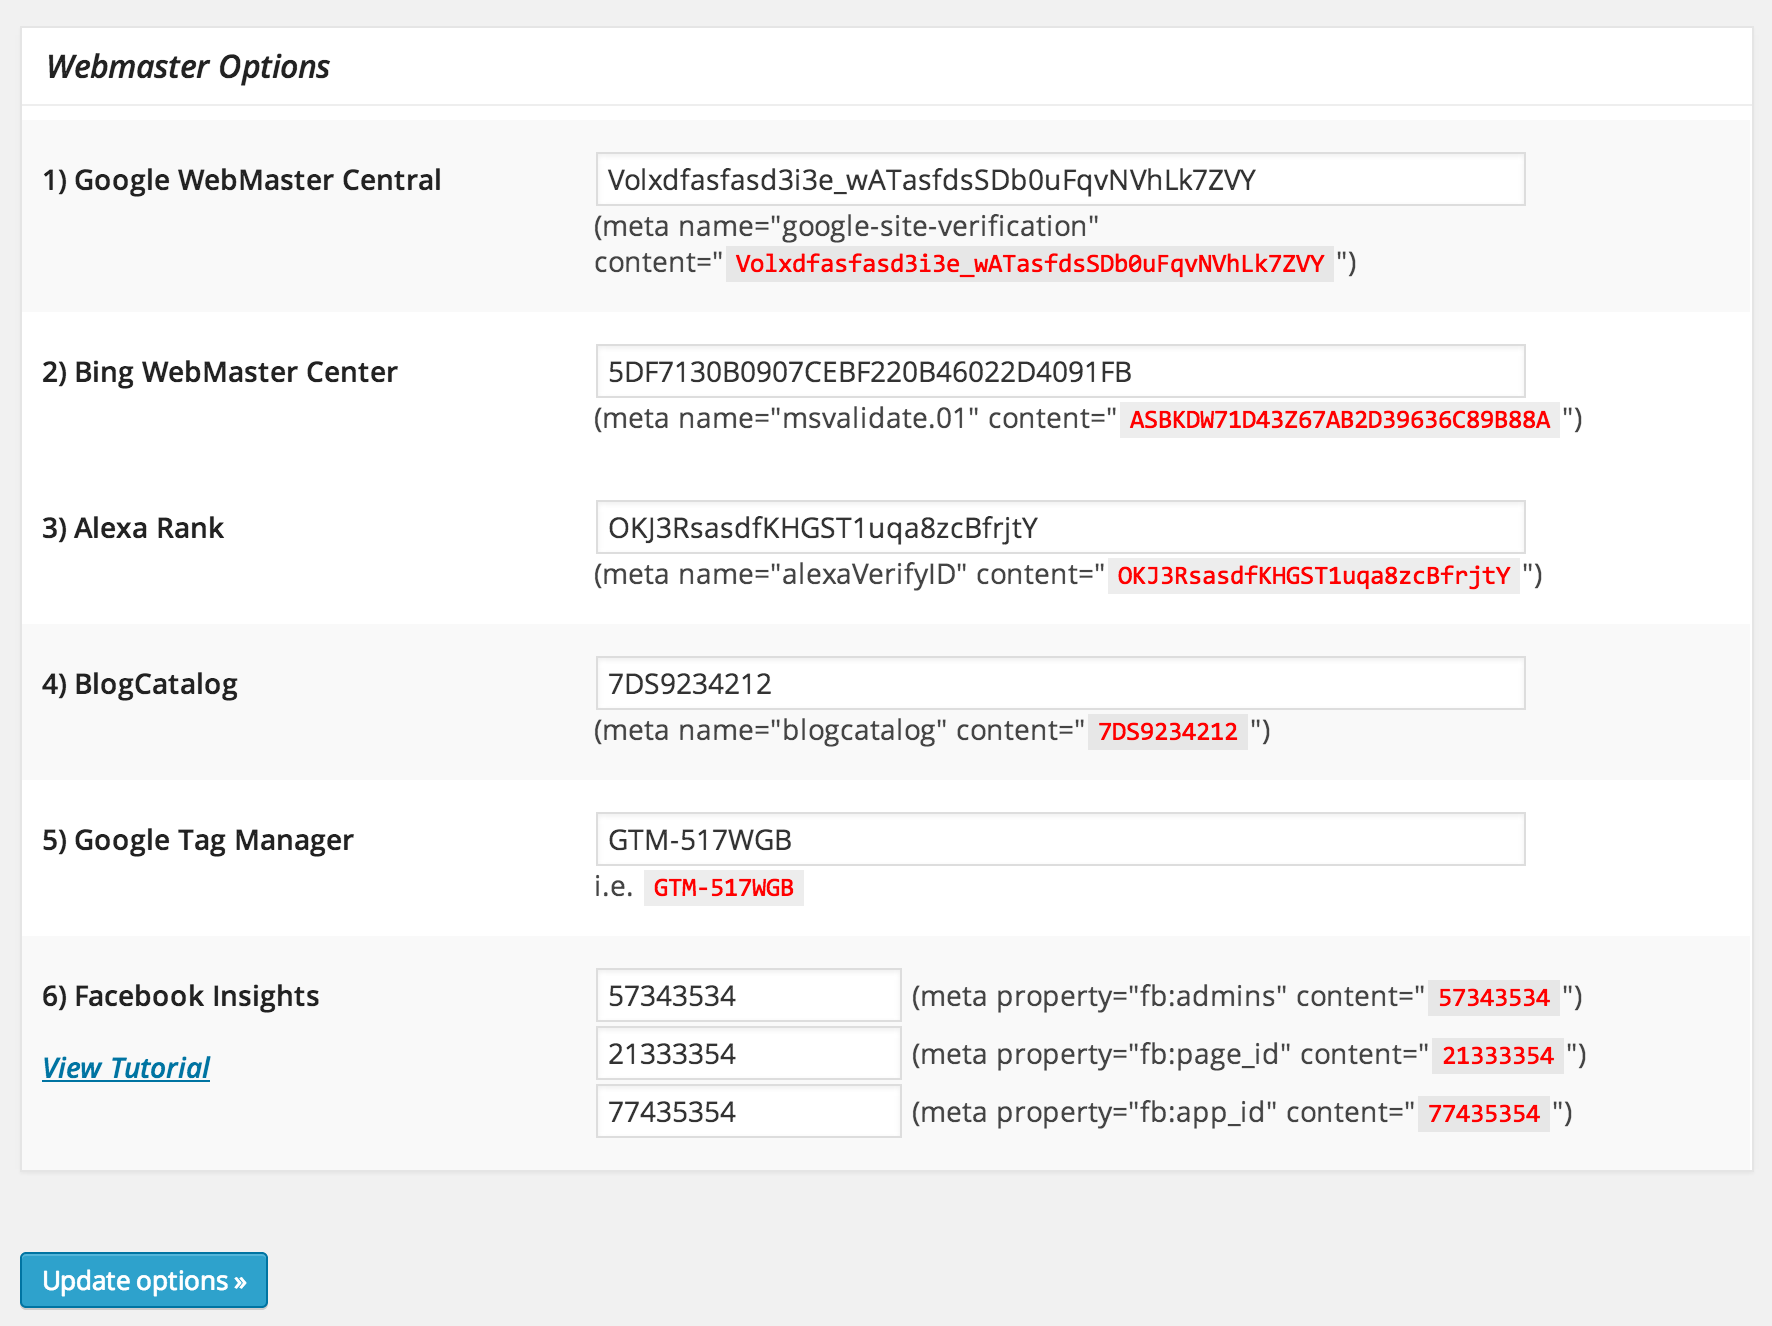
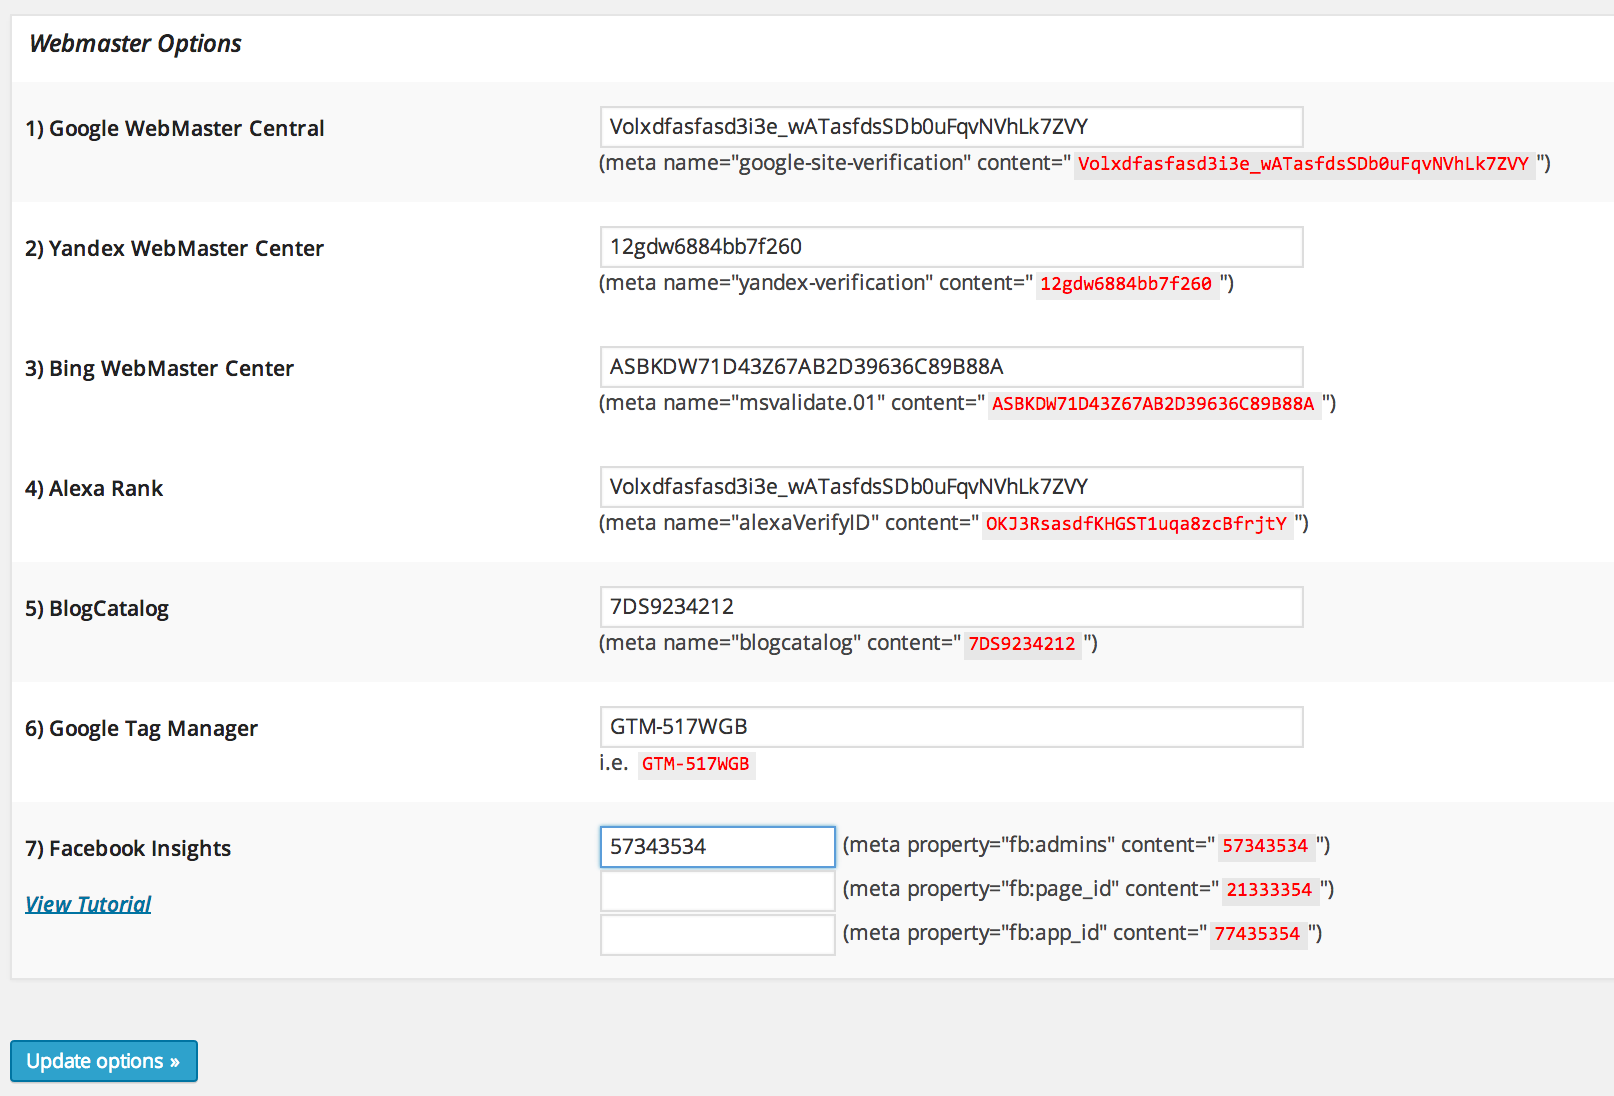
v9.5 - Yandex Meta Tag Verification Added
git-svn-id: https://plugins.svn.wordpress.org/all-in-one-webmaster/trunk@994368 b8457f37-d9ea-0310-8a92-e5e31aec5664

diff --git a/pages/aiow-premium-webmaster.php b/pages/aiow-premium-webmaster.php
@@ -28,7 +28,18 @@ require_once (dirname ( __FILE__ ) . '/aiow-premium-header.php');
 				</td>
 			</tr>
 			<tr valign="top">
-				<th scope="row" style="width: 32%;"><label>2) <b>Bing</b> WebMaster
+				<th scope="row" style="width: 32%;"><label>2) <b>Yandex</b> WebMaster
+						Center
+				</label></th>
+				<td><input id="styled" name="all_in_one_premium_yandex_webmaster"
+					type="text" size="55"
+					value="<?php echo get_option('all_in_one_premium_yandex_webmaster'); ?>" />
+					&nbsp; <br />(meta name="yandex-verification" content="<font color="red"><code>12gdw6884bb7f260</code></font>")<br />
+				</td>
+			</tr>
+			
+			<tr valign="top">
+				<th scope="row" style="width: 32%;"><label>3) <b>Bing</b> WebMaster
 						Center
 				</label></th>
 				<td><input id="styled" name="all_in_one_premium_bing_webmaster"
@@ -39,7 +50,7 @@ require_once (dirname ( __FILE__ ) . '/aiow-premium-header.php');
 				</td>
 			</tr>
 			<tr valign="top">
-				<th scope="row" style="width: 32%;"><label>3) <b>Alexa</b> Rank
+				<th scope="row" style="width: 32%;"><label>4) <b>Alexa</b> Rank
 				</label></th>
 				<td><input id="styled" name="all_in_one_premium_alexa_webmaster"
 					type="text" size="55"
@@ -48,7 +59,7 @@ require_once (dirname ( __FILE__ ) . '/aiow-premium-header.php');
 				</td>
 			</tr>
 			<tr valign="top" class="alternate">
-				<th scope="row" style="width: 32%;"><label>4) <b>BlogCatalog</b></label><?=$new_icon?></th>
+				<th scope="row" style="width: 32%;"><label>5) <b>BlogCatalog</b></label><?=$new_icon?></th>
 				<td><input id="styled" name="all_in_one_premium_bcatalog_webmaster"
 					type="text" size="55"
 					value="<?php echo get_option('all_in_one_premium_bcatalog_webmaster'); ?>" />
@@ -59,7 +70,7 @@ require_once (dirname ( __FILE__ ) . '/aiow-premium-header.php');
 			<!--  Since 10.1 -- Google Tag Manager  -->
 
 			<tr valign="top">
-				<th scope="row" style="width: 32%;"><label>5) <b>Google Tag Manager</b></label><?=$new_icon?></th>
+				<th scope="row" style="width: 32%;"><label>6) <b>Google Tag Manager</b></label><?=$new_icon?></th>
 				<td><input id="styled" name="all_in_one_premium_google_tag_manager"
 					type="text" size="55"
 					value="<?php echo get_option('all_in_one_premium_google_tag_manager'); ?>" />
@@ -68,7 +79,7 @@ require_once (dirname ( __FILE__ ) . '/aiow-premium-header.php');
 			</tr>
 
 			<tr valign="top" class="alternate">
-				<th scope="row" style="width: 32%;"><label>6) <b>Facebook Insights</b></label><?=$new_icon?><br>
+				<th scope="row" style="width: 32%;"><label>7) <b>Facebook Insights</b></label><?=$new_icon?><br>
 				<br>
 				<a href="http://www.facebook.com/insights/" target="_blank"
 					title="Click to visit Facebook Insight"><?=$help_icon?></a><i><a

diff --git a/all-in-one-webmaster-premium.php b/all-in-one-webmaster-premium.php
@@ -15,7 +15,7 @@
  *            Plugin Name: All in One Webmaster
  *            Plugin URI: http://crunchify.com/all-in-one-webmaster/
  *            Description: All in One Webmaster is the best webmaster plugin for WordPress that adds Meta-Tags and Scripts to your Site's Header and Footer Section automatically without changing any of your themes file and without slowing down your site.
- *            Version: 9.4
+ *            Version: 9.5
  *            Author: Arpit Shah
  *            Author URI: http://crunchify.com/
  *            Text Domain: aiow
@@ -40,7 +40,7 @@ class aiow_premium {
 	 *       
 	 * @var string
 	 */
-	protected $version = '9.4';
+	protected $version = '9.5';
 	
 	/**
 	 * The name of the plugin.
@@ -126,6 +126,7 @@ class aiow_premium {
 	 */
 	public function aiow_premium_header() {
 		$google_wm = get_option ( 'all_in_one_premium_google_webmaster' );
+		$yandex_wm = get_option ( 'all_in_one_premium_yandex_webmaster' );
 		$alexa_wm = get_option ( 'all_in_one_premium_alexa_webmaster' );
 		$bcatalog_wm = get_option ( 'all_in_one_premium_bcatalog_webmaster' );
 		$fbinsights_wm = get_option ( 'all_in_one_premium_fbinsights_webmaster' );
@@ -150,6 +151,11 @@ class aiow_premium {
 		if (! ($google_wm == "")) {
 			$google_wm_meta = '<meta name="google-site-verification" content="' . $google_wm . '" /> ';
 			echo $google_wm_meta . "\n";
+		}
+		
+		if (! ($yandex_wm == "")) {
+			$yandex_wm_meta = '<meta name="yandex-verification" content="' . $yandex_wm . '" /> ';
+			echo $yandex_wm_meta . "\n";
 		}
 		
 		if (! ($bing_wm == "")) {
@@ -296,6 +302,7 @@ class aiow_premium {
  * @since 9.0
  */
 add_option ( 'all_in_one_premium_google_webmaster', '' );
+add_option ( 'all_in_one_premium_yandex_webmaster', '' );
 add_option ( 'all_in_one_premium_bing_webmaster', '' );
 add_option ( 'all_in_one_premium_alexa_webmaster', '' );
 add_option ( 'all_in_one_premium_bcatalog_webmaster', '' );
@@ -542,6 +549,7 @@ function all_in_one_premium_save_all_options() {
 			die ( "Hmm .. looks like you didn't send any credentials.. No CSRF for you! " );
 		
 		update_option ( 'all_in_one_premium_google_webmaster', ( string ) $_POST ["all_in_one_premium_google_webmaster"] );
+		update_option ( 'all_in_one_premium_yandex_webmaster', ( string ) $_POST ["all_in_one_premium_yandex_webmaster"] );
 		update_option ( 'all_in_one_premium_google_tag_manager', ( string ) $_POST ["all_in_one_premium_google_tag_manager"] );
 		update_option ( 'all_in_one_premium_alexa_webmaster', ( string ) $_POST ["all_in_one_premium_alexa_webmaster"] );
 		update_option ( 'all_in_one_premium_bcatalog_webmaster', ( string ) $_POST ["all_in_one_premium_bcatalog_webmaster"] );
